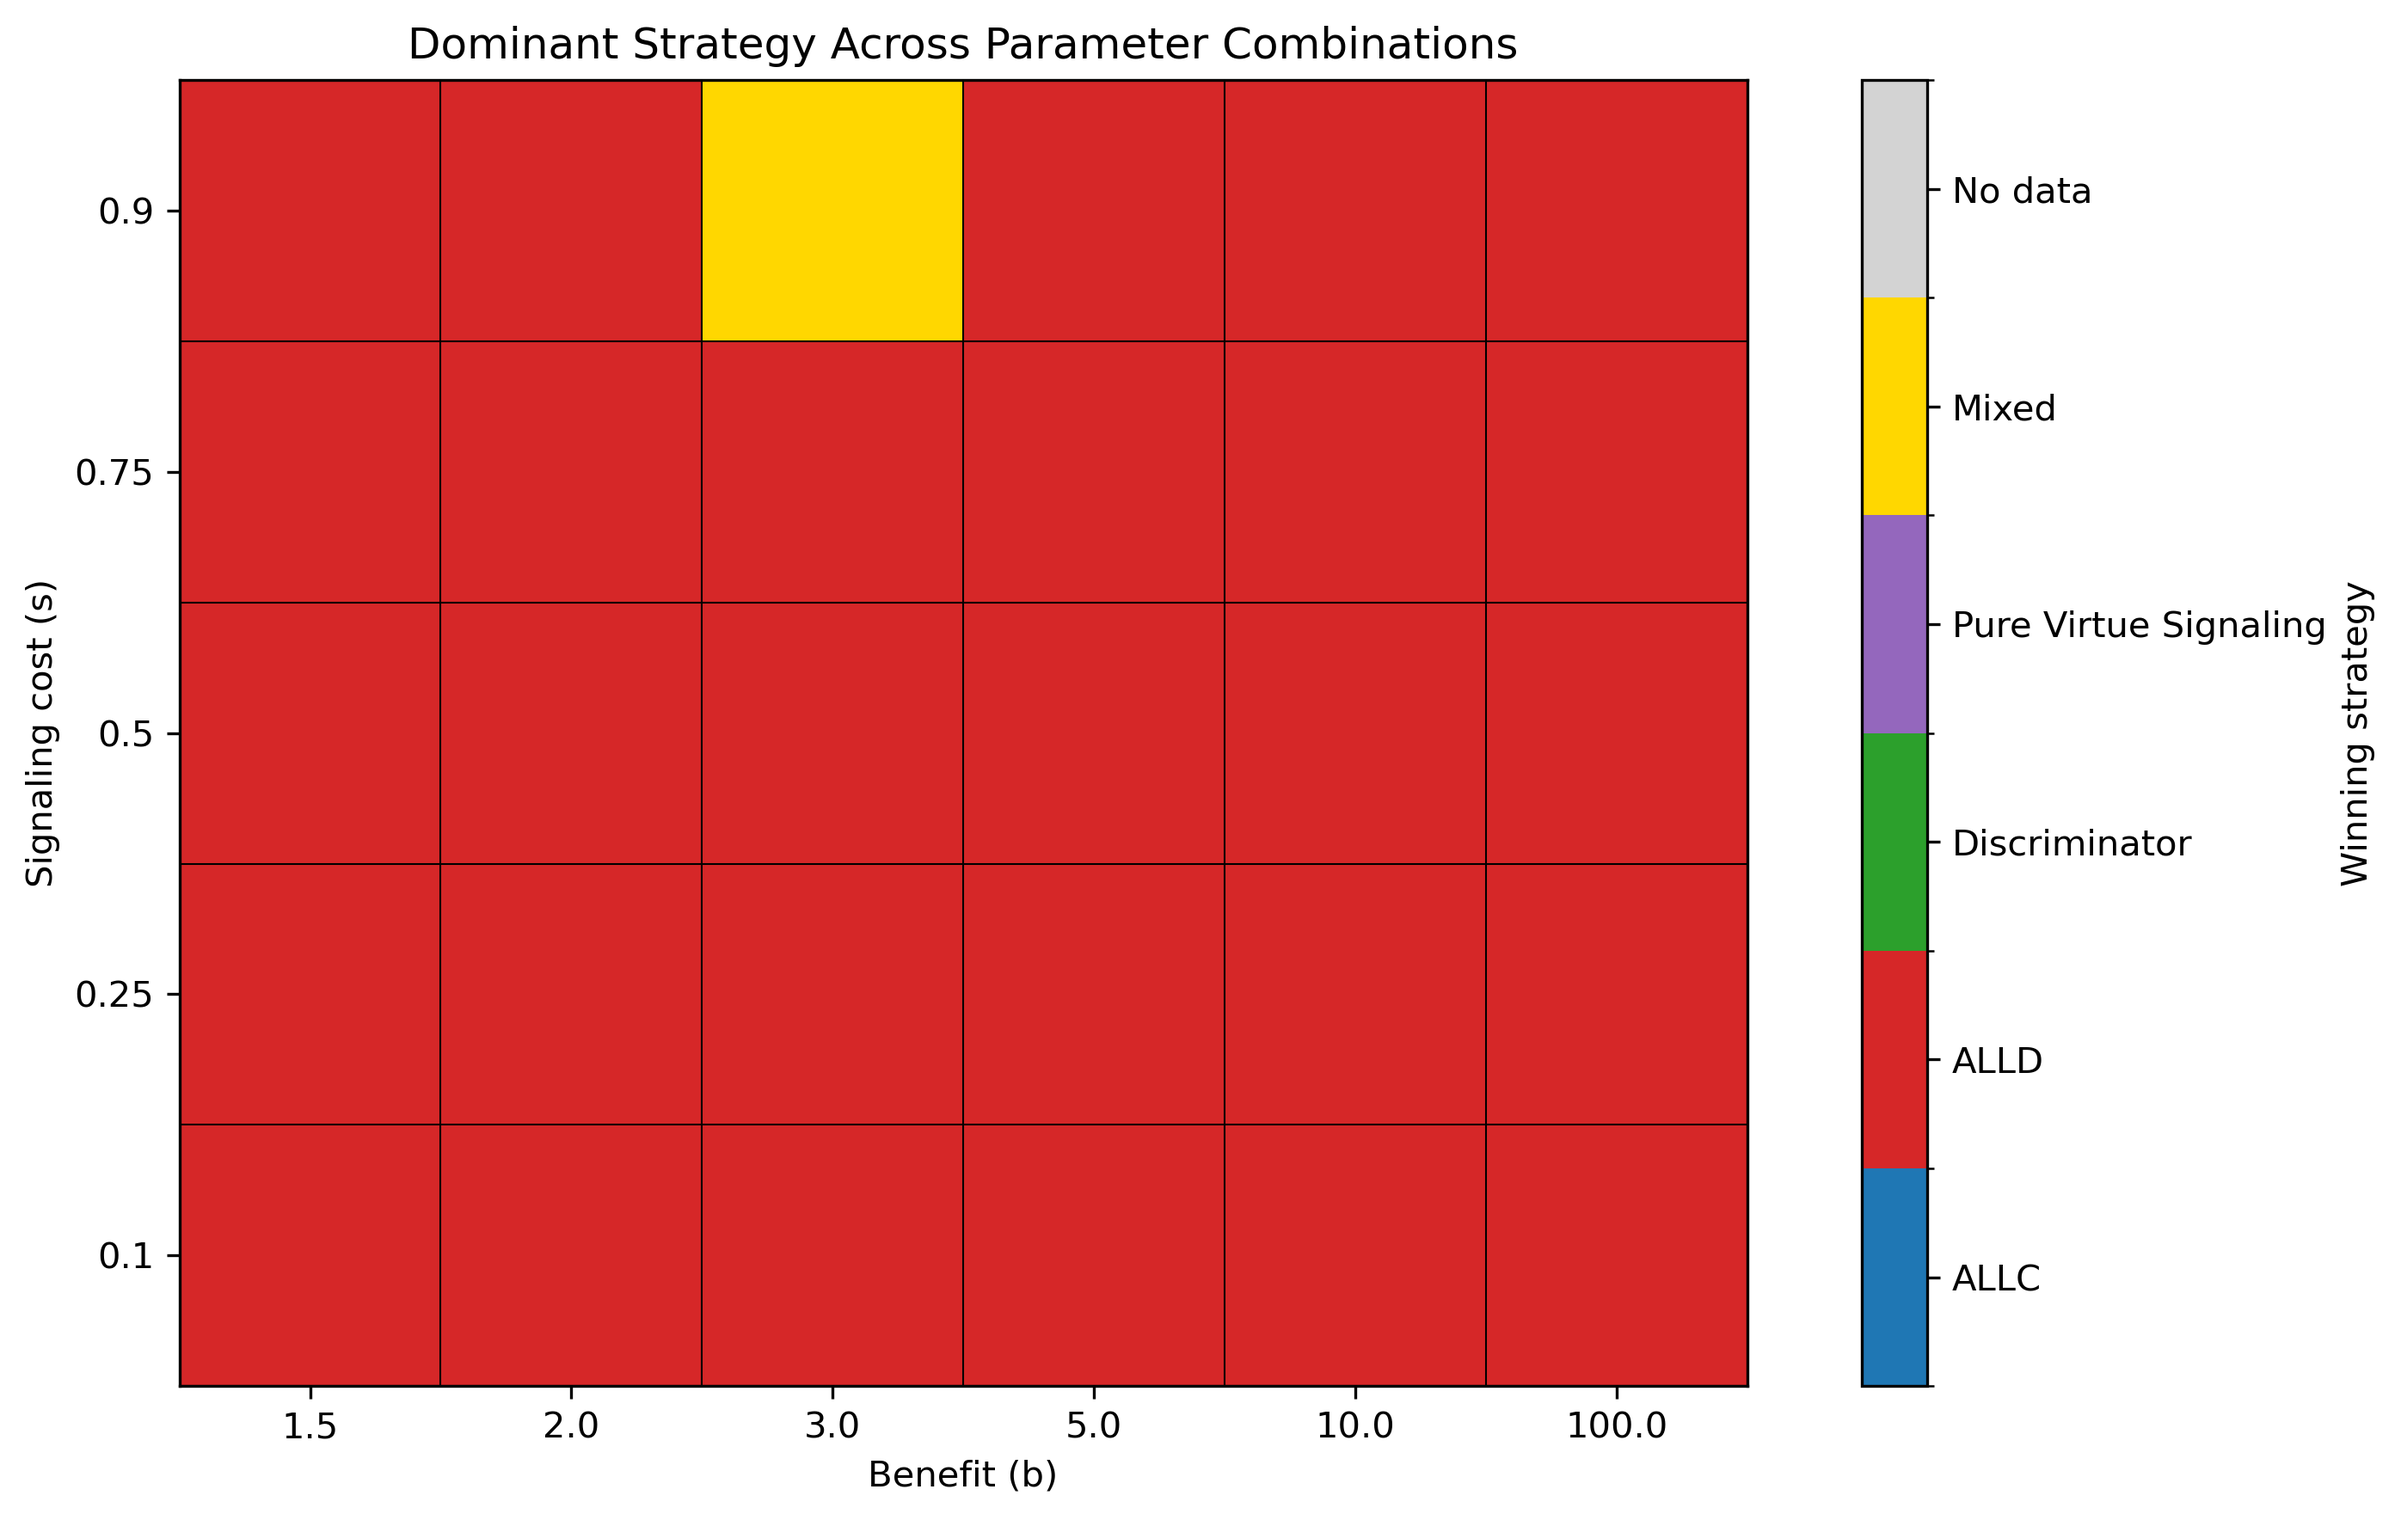
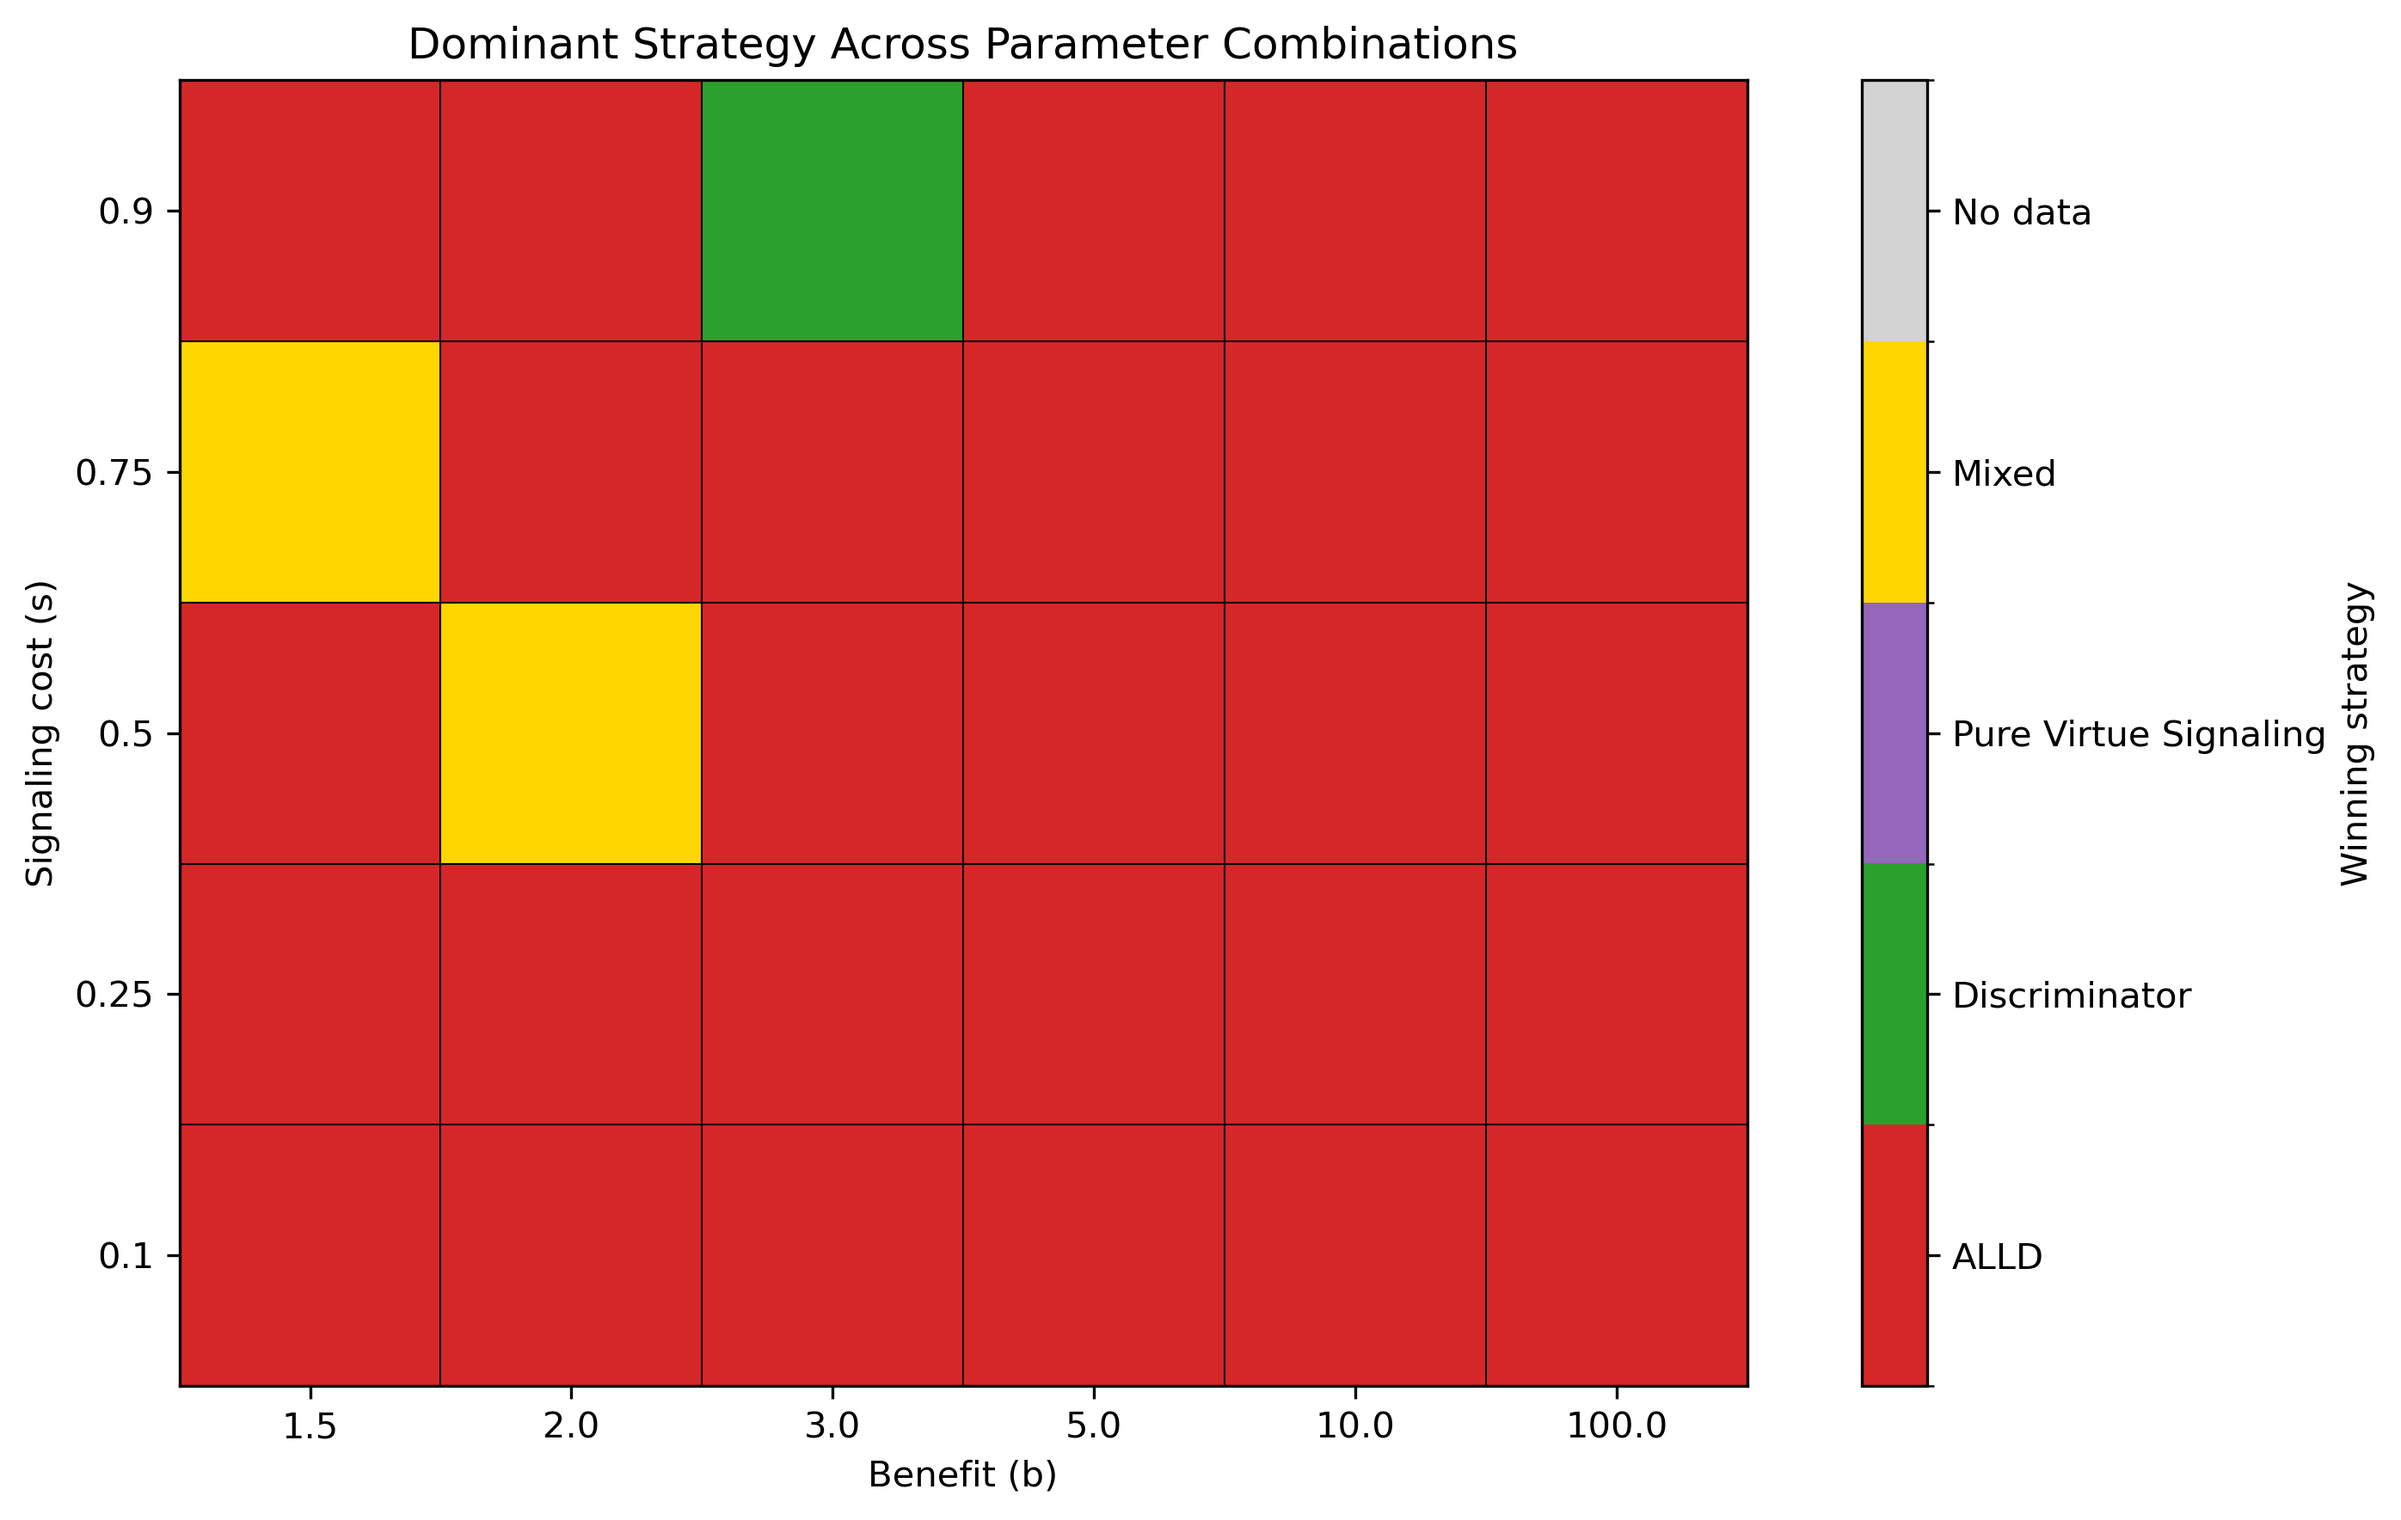
ALLC kicked out

diff --git a/code.py b/code.py
@@ -23,7 +23,7 @@ BASE_PARAMS = {
 }
 
 # Initial conditions for testing
-TEST_INITIAL = (0.25, 0.25, 0.25)
+TEST_INITIAL = (0.501, 0.249)
 
 
 # ============================================================
@@ -38,69 +38,61 @@ PARAMETER_GRID = {
 
 # Different initial conditions
 INITIAL_CONDITIONS = [
-    (0.25, 0.25, 0.25),
-    (0.7, 0.1, 0.1),
-    (0.1, 0.7, 0.1),
-    (0.1, 0.1, 0.7),
-    (0.1, 0.1, 0.1)
+    (1/3, 1/3),
+    (7/9, 1/9),
+    (1/9, 7/9),
+    (1/9, 1/9)
 ]
 
 
-def payoff(x, y, z, v, params):
+def payoff(y, z, v, params):
 
     b = params["b"]
     c = params["c"]
     s = params["s"]
 
-    g_x = params["g_x"]
     g_y = params["g_y"]
     g_z = params["g_z"]
     g_v = params["g_v"]
 
-    g = x * g_x + y * g_y + z * g_z + v * g_v
+    g = y * g_y + z * g_z + v * g_v
 
-    P_x = b * (x + z * g_x) - c
-    P_y = b * (x + z * g_y)
-    P_z = b * (x + z * g_z) - c * g
-    P_v = b * (x + z * g_v) - s
+    P_y = b * (z * g_y)
+    P_z = b * (z * g_z) - c * g
+    P_v = b * (z * g_v) - s
 
-    P_bar = x * P_x + y * P_y + z * P_z + v * P_v
+    P_bar = y * P_y + z * P_z + v * P_v
 
-    return g, P_x, P_y, P_z, P_v, P_bar
+    return g, P_y, P_z, P_v, P_bar
 
 
 def replicator_eq(t, current_state, params):
 
-    # Log-ratio coordinates
-    u_x, u_y, u_z = current_state
+    u_y, u_z = current_state
 
     # Reconstruct strategy shares using softmax
-    # Subtract maximum for numerical stability
-    max_u = max(0.0, u_x, u_y, u_z)
+    max_u = max(0.0, u_y, u_z)
 
-    exp_x = np.exp(u_x - max_u)
     exp_y = np.exp(u_y - max_u)
     exp_z = np.exp(u_z - max_u)
     exp_v = np.exp(-max_u)
 
-    denominator = exp_x + exp_y + exp_z + exp_v
+    denominator = exp_y + exp_z + exp_v
 
-    x = exp_x / denominator
     y = exp_y / denominator
     z = exp_z / denominator
     v = exp_v / denominator
 
     # Calculate payoffs
-    g, P_x, P_y, P_z, P_v, P_bar = payoff(
-        x, y, z, v, params
+    g, P_y, P_z, P_v, P_bar = payoff(
+        y, z, v, params
     )
 
     # Log-ratio replicator equations
-    du_x = P_x - P_v
     du_y = P_y - P_v
     du_z = P_z - P_v
 
-    return [du_x, du_y, du_z]
+    return [du_y, du_z]
 
 
 def convergence_event(t, current_state, params):
@@ -119,11 +111,10 @@ def run_simulation(params, initial_conditions):
     t_points = 15000
 
     # Initial strategy shares
-    x0, y0, z0 = initial_conditions
-    v0 = 1.0 - x0 - y0 - z0
+    y0, z0 = initial_conditions
+    v0 = 1.0 - y0 - z0
 
-    # Validate initial conditions
-    initial_shares = np.array([x0, y0, z0, v0])
+    initial_shares = np.array([y0, z0, v0])
 
     if np.any(initial_shares <= 0) or np.any(initial_shares > 1):
         raise ValueError(
@@ -135,14 +126,12 @@ def run_simulation(params, initial_conditions):
 
     # Transform initial conditions into log-ratio coordinates
     y0_vector = np.array([
-        np.log(x0 / v0),
         np.log(y0 / v0),
         np.log(z0 / v0)
     ])
 
     t_eval = np.linspace(t_start, t_end, t_points)
 
-    # Integrate logarithmic system
     solution = solve_ivp(
         fun=replicator_eq,
         t_span=(t_start, t_end),
@@ -158,41 +147,36 @@ def run_simulation(params, initial_conditions):
     if not solution.success:
         raise RuntimeError(solution.message)
 
-    # Reconstruct strategy shares from logarithmic coordinates
-    u_x, u_y, u_z = solution.y
+    # Reconstruct strategy shares
+    u_y, u_z = solution.y
 
-    # Numerically stable softmax reconstruction
     max_u = np.maximum.reduce([
-        np.zeros_like(u_x),
-        u_x,
+        np.zeros_like(u_y),
         u_y,
         u_z
     ])
 
-    exp_x = np.exp(u_x - max_u)
     exp_y = np.exp(u_y - max_u)
     exp_z = np.exp(u_z - max_u)
     exp_v = np.exp(-max_u)
 
-    denominator = exp_x + exp_y + exp_z + exp_v
+    denominator = exp_y + exp_z + exp_v
 
-    x = exp_x / denominator
     y = exp_y / denominator
     z = exp_z / denominator
     v = exp_v / denominator
 
-    # Replace logarithmic solution with reconstructed shares
-    solution.y = np.vstack([x, y, z, v])
+    # Replace logarithmic solution with strategy shares
+    solution.y = np.vstack([y, z, v])
 
     # Print final strategy shares
     print("\nFinal strategy shares:")
-    print(f"x(T) = {x[-1]:.6f}")
     print(f"y(T) = {y[-1]:.6f}")
     print(f"z(T) = {z[-1]:.6f}")
     print(f"v(T) = {v[-1]:.6f}")
 
     # Check normalization
-    total = x + y + z + v
+    total = y + z + v
 
     if not np.allclose(total, 1.0, atol=1e-10):
         raise RuntimeError("Normalization condition violated!")
@@ -207,7 +191,7 @@ def run_simulation(params, initial_conditions):
 def plot_solution(solution, params, initial_conditions):
 
     t = solution.t
-    x, y, z, v = solution.y
+    y, z, v = solution.y
 
     # Create parameter-specific directory
     parameter_folder = f"b={params['b']:g}_s={params['s']:g}"
@@ -215,20 +199,17 @@ def plot_solution(solution, params, initial_conditions):
     save_dir = Path("results") / parameter_folder
     save_dir.mkdir(parents=True, exist_ok=True)
 
-    # Create filename based on initial conditions
-    x0, y0, z0 = initial_conditions
-    v0 = 1 - x0 - y0 - z0
+    # Initial conditions
+    y0, z0 = initial_conditions
+    v0 = 1 - y0 - z0
 
-    filename = (
-        f"IC_x={x0:g}_y={y0:g}_z={z0:g}_v={v0:g}.png"
-    )
+    filename = f"IC_y={y0:g}_z={z0:g}_v={v0:g}.png"
 
     filepath = save_dir / filename
 
     # Create plot
     plt.figure(figsize=(10, 6))
 
-    plt.plot(t, x, label="ALLC", linewidth=2)
     plt.plot(t, y, label="ALLD", linewidth=2)
     plt.plot(t, z, label="Discriminator", linewidth=2)
     plt.plot(t, v, label="Pure Virtue Signaling", linewidth=2)
@@ -242,7 +223,6 @@ def plot_solution(solution, params, initial_conditions):
     plt.legend()
     plt.tight_layout()
 
-    # Save plot
     plt.savefig(filepath, dpi=300, bbox_inches="tight")
 
     print(f"Plot saved to: {filepath}")
@@ -262,7 +242,6 @@ def run_single_test():
     plot_solution(solution, BASE_PARAMS, TEST_INITIAL)
 
 
-
 def run_parameter_sweep():
 
     print("Running parameter sweep...")
@@ -274,7 +253,6 @@ def run_parameter_sweep():
     failed_simulations = []
 
     strategy_names = [
-        "ALLC",
         "ALLD",
         "Discriminator",
         "Pure Virtue Signaling"
@@ -295,10 +273,10 @@ def run_parameter_sweep():
                 plot_solution(solution, params, initial)
 
                 # Extract reconstructed strategy shares
-                x, y, z, v = solution.y
+                y, z, v = solution.y
 
                 final_shares = np.array([
-                    x[-1], y[-1], z[-1], v[-1]
+                    y[-1], z[-1], v[-1]
                 ])
 
                 # Determine winning strategy
@@ -307,7 +285,6 @@ def run_parameter_sweep():
                 results.append({
                     "params": params.copy(),
                     "initial": initial,
-                    "final_x": x[-1],
                     "final_y": y[-1],
                     "final_z": z[-1],
                     "final_v": v[-1],
@@ -319,7 +296,7 @@ def run_parameter_sweep():
                     f"c={params['c']}, "
                     f"s={params['s']} | "
                     f"Initial={initial} | "
-                    f"Final={[round(x[-1], 3), round(y[-1], 3), round(z[-1], 3), round(v[-1], 3)]} | "
+                    f"Final={[round(y[-1], 3), round(z[-1], 3), round(v[-1], 3)]} | "
                     f"Winner={winner}"
                 )
 
@@ -352,7 +329,6 @@ def run_parameter_sweep():
 def plot_winner_map(results):
 
     strategy_names = [
-        "ALLC",
         "ALLD",
         "Discriminator",
         "Pure Virtue Signaling"
@@ -361,7 +337,6 @@ def plot_winner_map(results):
     categories = strategy_names + ["Mixed", "No data"]
 
     colors = [
-        "tab:blue",
         "tab:red",
         "tab:green",
         "tab:purple",
